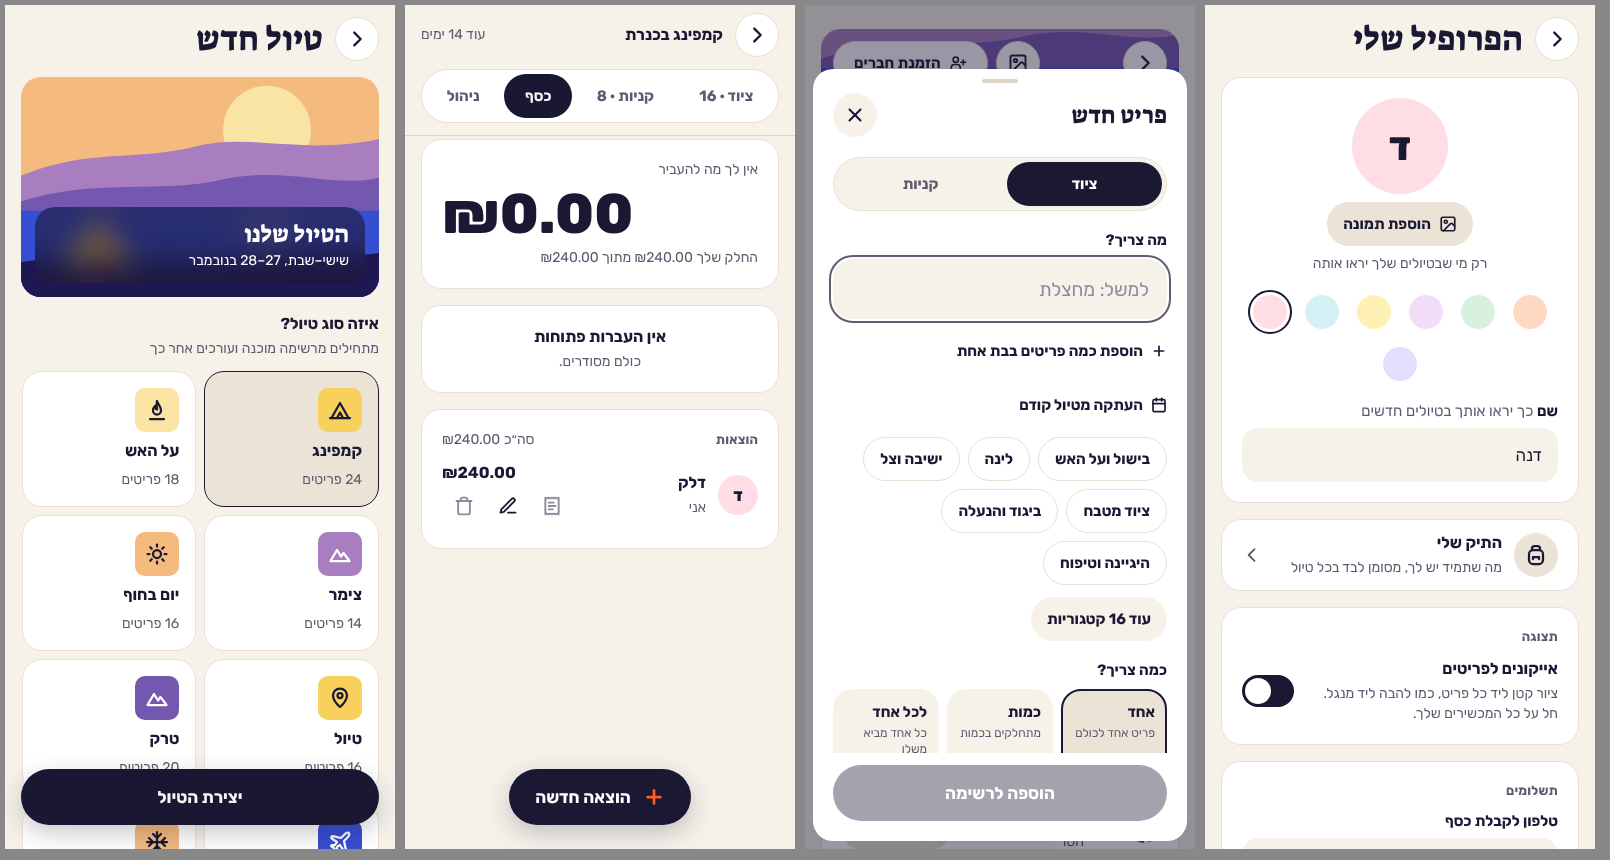
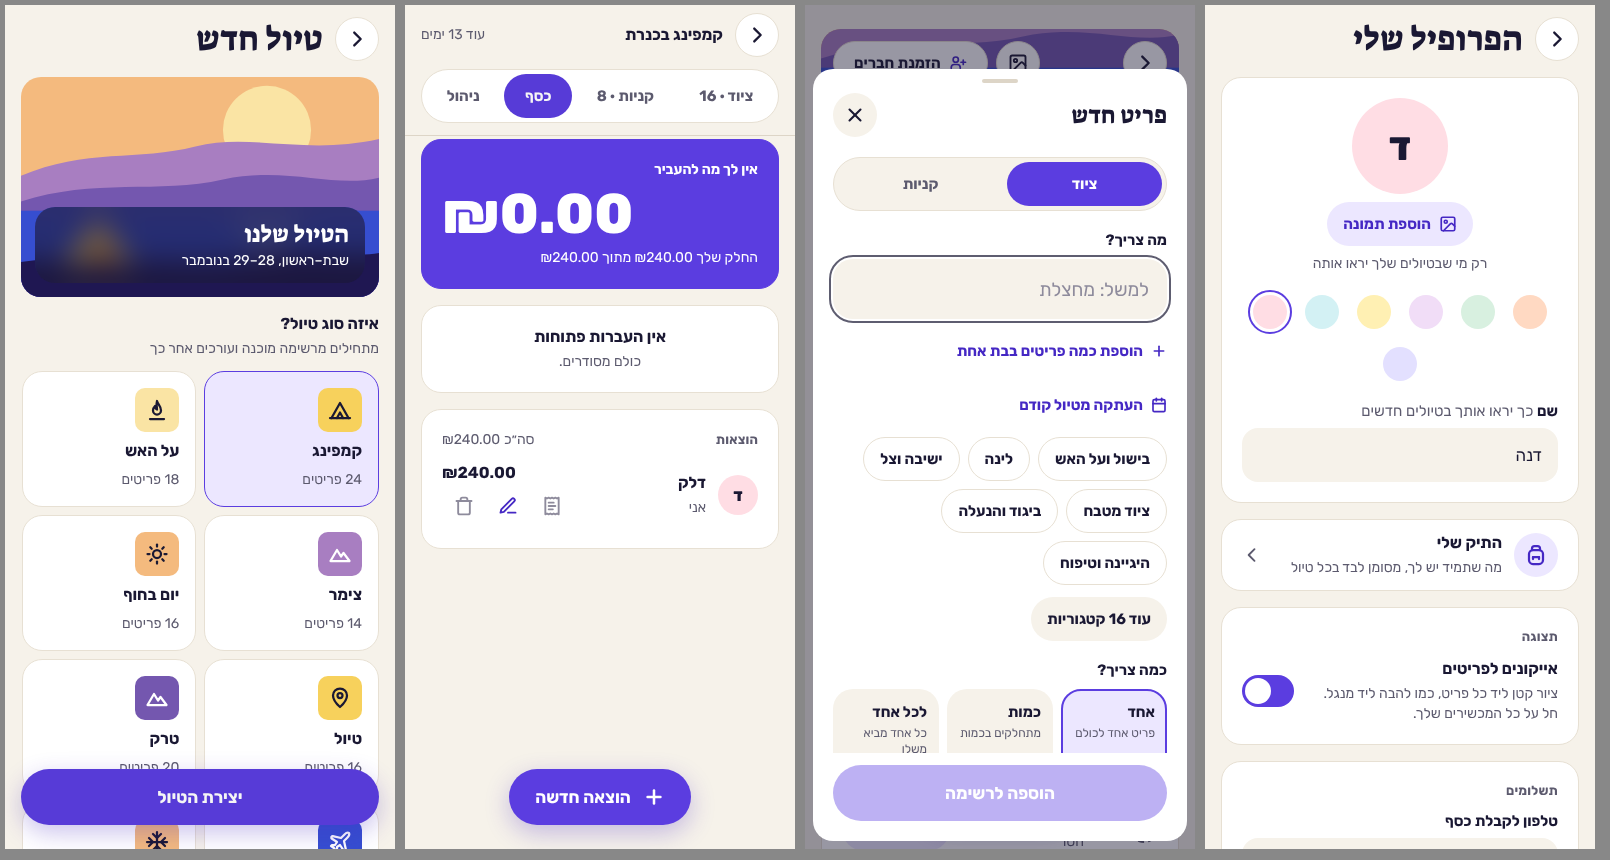
Design v3: bring color back with sunset violet and category accents
Night ink for every action left the app without color. Taps are now
sunset violet (#5B3DE0), the purple of the cover illustrations' hills,
and orange keeps meaning "done".

- primary / primaryTint / primaryStrong are violet; the floating
  button's icon is white again.
- Each category card on a list gets an accent hue, cycling: a dot by
  its name and the color of its items' icons.
- The money balance is a violet card with white text.
- DESIGN.md, the design README, the token files and the v3 screenshots
  describe the new palette.

Claude-Session: https://claude.ai/code/session_01VJCBwKmRcH2gRZtPoHWbWs

diff --git a/apps/mobile/src/theme/index.ts b/apps/mobile/src/theme/index.ts
@@ -1,7 +1,8 @@
 import { Platform, type TextStyle } from 'react-native';
 
 /**
- * Design system v3 tokens (docs/design/DESIGN.md): warm paper, night ink and one orange spark.
+ * Design system v3 tokens (docs/design/DESIGN.md): warm paper, night ink, sunset violet for what
+ * you tap, and orange for what's done.
  * The page background is `ground` and cards are `card`, so "surface" never has two meanings.
  */
 export const colors = {
@@ -9,17 +10,17 @@ export const colors = {
   ground: '#F6F2EA',
   /** Cards and sheets, always on `ground`, outlined with `hairline`. */
   card: '#FFFFFF',
-  /** Night ink: headings, and (as `primary`) everything you can tap. */
+  /** Night ink: headings and body text. */
   ink: '#1A1833',
   inkMuted: '#5C5A6E',
-  /** Solid buttons, selected chips and tabs, links. The same night as `ink`. */
-  primary: '#1A1833',
+  /** Sunset violet: everything you can tap (solid buttons, selected chips and tabs, links). */
+  primary: '#5B3DE0',
   onPrimary: '#FFFFFF',
-  /** Tonal buttons, step circles, selected tiles: sand, a step deeper than `ground`. */
-  primaryTint: '#EBE4D6',
-  /** Text on `primaryTint`. */
-  primaryStrong: '#1A1833',
-  /** Yallist orange: the logo, done checks, progress, and the icon on a solid button. Graphics only. */
+  /** Tonal buttons, step circles, selected tiles: pale violet. */
+  primaryTint: '#ECE7FF',
+  /** Violet text and icons on `primaryTint` and `card`. */
+  primaryStrong: '#4528C4',
+  /** Yallist orange: the logo, done checks and progress. Graphics only; never buttons. */
   brand: '#FF5A1F',
   /** Orange text on `card` and `ground` (e.g. "אצלך", errors). */
   brandStrong: '#B8370B',
@@ -40,6 +41,15 @@ export const colors = {
   hairline: '#E7E0D3',
   scrim: 'rgba(26,24,51,0.45)',
 } as const;
+
+/**
+ * One hue per category card, in order: its dot and its items' icons. Each is at least 4.3:1 on
+ * `card`, so an icon in it reads as clearly as `inkMuted`.
+ */
+export const accents = ['#5B3DE0', '#0A7C76', '#D9480F', '#C2387A', '#A86A0A', '#2F6FD0'] as const;
+
+/** The accent for the category card at `index`, cycling. */
+export const accentAt = (index: number) => accents[index % accents.length]!;
 
 /**
  * Suez One for titles (one weight), Rubik at 400, 700 and 800 for everything else
@@ -142,7 +152,7 @@ export const webDir = (Platform.OS === 'web' ? { dir: isRTL ? 'rtl' : 'ltr' } : 
 
 /** Only what floats has a shadow: the floating button and the toast. Cards stay flat. */
 export const shadow = {
-  float: { boxShadow: '0 8px 24px rgba(26,24,51,0.24)' },
+  float: { boxShadow: '0 8px 24px rgba(69,40,196,0.28)' },
 } as const;
 
 /** The card: white on `ground`, outlined with a hairline. Spread into any view that is one. */

diff --git a/apps/mobile/src/features/trip/ListTab.tsx b/apps/mobile/src/features/trip/ListTab.tsx
@@ -19,7 +19,7 @@ import { testId } from '@/lib/testId';
 import { useBag } from '@/state/bag';
 import { useTripAction } from '@/state/trips';
 import type { TripData } from '@/state/types';
-import { colors, space, type } from '@/theme';
+import { accentAt, colors, space, type } from '@/theme';
 import { useBreakpoint } from '@/theme/breakpoint';
 
 import { BagCards } from './BagCards';
@@ -156,10 +156,11 @@ export function ListTab({
         ) : (
           <EmptyState {...he.trip.empty.missing} />
         ))}
-      {groups.map(({ category, total, missing, items }) => (
+      {groups.map(({ category, total, missing, items }, index) => (
         <Card key={category?.id ?? 'none'} gap={space[3]}>
           {/* The card's small muted title (trip.html "ציוד"), with ✎ for the category sheet. */}
           <View style={styles.header}>
+            <View style={[styles.dot, { backgroundColor: accentAt(index) }]} />
             <Text style={styles.title} accessibilityRole="header">
               {category?.name ?? he.trip.uncategorized}
             </Text>
@@ -192,6 +193,7 @@ export function ListTab({
               }
               onClaim={(quantity) => act({ type: 'setClaim', itemId: item.id, quantity })}
               onPack={(packed) => act({ type: 'setPacked', itemId: item.id, packed })}
+              accent={accentAt(index)}
             />
           ))}
           {category && filter === 'all' && (
@@ -230,12 +232,9 @@ const styles = StyleSheet.create({
   filters: { gap: space[2] },
   chips: { flexDirection: 'row', flexWrap: 'wrap', justifyContent: 'center', gap: space[2] },
   header: { flexDirection: 'row', alignItems: 'center', gap: space[2], minHeight: 36 },
-  title: {
-    ...type.caption,
-    fontFamily: type.itemTitle.fontFamily,
-    color: colors.inkMuted,
-    flex: 1,
-  },
+  // The category's accent, which its items' icons share.
+  dot: { width: 10, height: 10, borderRadius: 5 },
+  title: { ...type.itemTitle, color: colors.ink, flex: 1 },
   aside: { ...type.caption, color: colors.inkMuted },
   progress: { ...type.itemTitle, color: colors.ink, flex: 1 },
   progressWrap: { gap: space[2], paddingHorizontal: space[1] },

diff --git a/apps/mobile/src/features/trip/MoneyTab.tsx b/apps/mobile/src/features/trip/MoneyTab.tsx
@@ -58,7 +58,8 @@ export function MoneyTab({ data, view, me }: { data: TripData; view: TripView; m
 
   return (
     <View style={styles.wrap}>
-      <Card gap={space[1]}>
+      {/* The one colored card: what I owe or am owed, on violet. */}
+      <Card gap={space[1]} style={styles.hero}>
         <Text style={styles.heroTitle}>{title}</Text>
         <Text style={styles.heroAmount}>{formatShekel(amount)}</Text>
         {view.totalSpent > 0 && (
@@ -80,7 +81,7 @@ export function MoneyTab({ data, view, me }: { data: TripData; view: TripView; m
           myPaid.length > 0 && (
             <>
               <View style={styles.heroStatus}>
-                <Icon name="check" size={18} color={colors.primaryStrong} />
+                <Icon name="check" size={18} color={colors.onPrimary} />
                 <Text style={styles.heroText}>
                   {myUnconfirmed.length > 0 ? he.money.waiting : he.money.received}
                 </Text>
@@ -340,9 +341,10 @@ const styles = StyleSheet.create({
     justifyContent: 'center',
   },
   receiptPercent: { ...type.caption, color: colors.primaryStrong },
-  heroTitle: { ...type.caption, color: colors.inkMuted },
-  heroAmount: { ...type.bigNumber, color: colors.ink },
-  heroText: { ...type.caption, color: colors.inkMuted },
+  hero: { backgroundColor: colors.primary, borderColor: colors.primary },
+  heroTitle: { ...type.caption, fontFamily: type.itemTitle.fontFamily, color: colors.onPrimary },
+  heroAmount: { ...type.bigNumber, color: colors.onPrimary },
+  heroText: { ...type.caption, color: colors.onPrimary },
   heroButton: { marginTop: space[3] },
   heroStatus: { flexDirection: 'row', alignItems: 'center', gap: space[2], marginTop: space[3] },
   paymentEnd: { alignItems: 'flex-end' },

diff --git a/apps/mobile/src/components/ItemIcon.tsx b/apps/mobile/src/components/ItemIcon.tsx
@@ -10,7 +10,8 @@ import { ITEM_GLYPHS } from './itemGlyphs';
 const FALLBACK = { bring: 'backpack', buy: 'shopping-basket' } as const;
 
 /**
- * An item's line icon, by its name: thin, gray and with no background, so the row's name leads.
+ * An item's line icon, by its name: thin and with no background, so the row's name leads; gray,
+ * or its category card's accent (`color`).
  * Decorative, so hidden from screen readers, which read the name beside it. Nothing at all when
  * the user turned item icons off in their profile.
  */
@@ -18,17 +19,19 @@ export function ItemIcon({
   name,
   list = 'bring',
   size = 22,
+  color = colors.inkMuted,
 }: {
   name: string;
   list?: ListKind;
   size?: number;
+  color?: string;
 }) {
   const show = useShowItemIcons();
   if (!show) return null;
   const Glyph = ITEM_GLYPHS[catalogIcon(name) ?? FALLBACK[list]];
   return (
     <View accessibilityElementsHidden importantForAccessibility="no-hide-descendants">
-      <Glyph size={size} color={colors.inkMuted} strokeWidth={1.75} absoluteStrokeWidth />
+      <Glyph size={size} color={color} strokeWidth={1.75} absoluteStrokeWidth />
     </View>
   );
 }

diff --git a/docs/design/tokens/theme.ts b/docs/design/tokens/theme.ts
@@ -3,10 +3,10 @@ export const colors = {
   card: '#FFFFFF',
   ink: '#1A1833',
   inkMuted: '#5C5A6E',
-  primary: '#1A1833',
+  primary: '#5B3DE0',
   onPrimary: '#FFFFFF',
-  primaryTint: '#EBE4D6',
-  primaryStrong: '#1A1833',
+  primaryTint: '#ECE7FF',
+  primaryStrong: '#4528C4',
   brand: '#FF5A1F',
   brandStrong: '#B8370B',
   illustration: {
@@ -20,6 +20,8 @@ export const colors = {
   line: '#DDD5C7',
   hairline: '#E7E0D3',
 } as const;
+
+export const accents = ['#5B3DE0', '#0A7C76', '#D9480F', '#C2387A', '#A86A0A', '#2F6FD0'] as const;
 
 export const space = {
   1: 4,
@@ -84,17 +86,18 @@ export const typography = {
 
 export const shadow = {
   float: {
-    shadowColor: '#1A1833',
+    shadowColor: '#4528C4',
     shadowOffset: { width: 0, height: 8 },
-    shadowOpacity: 0.24,
+    shadowOpacity: 0.28,
     shadowRadius: 12,
     elevation: 8,
   },
-  floatCss: '0 8px 24px rgba(26, 24, 51, 0.24)',
+  floatCss: '0 8px 24px rgba(69, 40, 196, 0.28)',
 } as const;
 
 export const theme = {
   colors,
+  accents,
   space,
   layout,
   radius,

diff --git a/docs/design/tokens/tokens.css b/docs/design/tokens/tokens.css
@@ -3,10 +3,10 @@
   --card: #ffffff;
   --ink: #1a1833;
   --ink-muted: #5c5a6e;
-  --primary: #1a1833;
+  --primary: #5b3de0;
   --on-primary: #ffffff;
-  --primary-tint: #ebe4d6;
-  --primary-strong: #1a1833;
+  --primary-tint: #ece7ff;
+  --primary-strong: #4528c4;
   --brand: #ff5a1f;
   --brand-strong: #b8370b;
   --illo-sky: #f4ba7e;
@@ -43,6 +43,12 @@
   --avatar-xxl: 96px;
   --line: #ddd5c7;
   --hairline: #e7e0d3;
+  --accent-1: #5b3de0;
+  --accent-2: #0a7c76;
+  --accent-3: #d9480f;
+  --accent-4: #c2387a;
+  --accent-5: #a86a0a;
+  --accent-6: #2f6fd0;
   --progress-fill: var(--brand);
   --progress-track: var(--line);
   --motion-fast: 150ms;
@@ -50,7 +56,7 @@
   --motion-slow: 400ms;
   --motion-celebrate: 1200ms;
   --easing-out: cubic-bezier(0.2, 0, 0, 1);
-  --shadow-float: 0 8px 24px rgba(26, 24, 51, 0.24);
+  --shadow-float: 0 8px 24px rgba(69, 40, 196, 0.28);
 }
 
 .page-title { font-family: var(--font-display); font-size: 34px; line-height: 40px; font-weight: 400; }

diff --git a/apps/mobile/src/components/FloatingAction.tsx b/apps/mobile/src/components/FloatingAction.tsx
@@ -8,8 +8,8 @@ import { testId } from '@/lib/testId';
 import { colors, space } from '@/theme';
 
 /**
- * The screen's one floating primary action: bottom-centered, `space-6` from the edge. Its icon
- * (a plus by default) is the orange spark on night, like the mark beside the wordmark.
+ * The screen's one floating primary action: bottom-centered, `space-6` from the edge, a plus
+ * icon by default.
  */
 export function FloatingAction({
   label,
@@ -37,7 +37,7 @@ export function FloatingAction({
         disabled={disabled}
         accessibilityLabel={accessibilityLabel}
         {...testId(testID)}
-        icon={icon ? <Icon name={icon} color={colors.brand} strokeWidth={3} /> : undefined}
+        icon={icon ? <Icon name={icon} color={colors.onPrimary} strokeWidth={2.75} /> : undefined}
         onPress={onPress}
       />
     </View>

diff --git a/apps/mobile/src/features/trip/ItemRow.tsx b/apps/mobile/src/features/trip/ItemRow.tsx
@@ -42,6 +42,7 @@ export function ItemRow({
   onOpen,
   onClaim,
   onPack,
+  accent,
 }: {
   item: Item;
   claims: readonly Claim[];
@@ -52,6 +53,8 @@ export function ItemRow({
   onOpen: () => void;
   onClaim: (quantity: number) => void;
   onPack: (packed: boolean) => void;
+  /** Its category card's accent, for the item's icon. */
+  accent?: string;
 }) {
   const status = view.status(item);
   const line = bagLine(
@@ -144,7 +147,7 @@ export function ItemRow({
       ) : (
         <StatusRing state={ring} label={line.label} />
       )}
-      <ItemIcon name={item.name} list={item.list} />
+      <ItemIcon name={item.name} list={item.list} color={accent} />
       <Pressable style={styles.main} onPress={onOpen} accessibilityRole="button">
         <Text style={styles.name}>
           {item.name}

diff --git a/docs/design/DESIGN.md b/docs/design/DESIGN.md
@@ -4,7 +4,7 @@
 
 Yallist is a group-trip app for Israel: one shared list for who brings what and what still needs buying. It is Hebrew-first and right-to-left, warm, quick, and a little playful, like the WhatsApp group it replaces.
 
-**The look in one line.** Warm paper, night ink, and one orange spark: the app looks like its own logo (an orange mark beside ink letters) and like the sunset in its illustrations, not like a blue web app.
+**The look in one line.** Warm paper, night ink, sunset violet for what you tap and orange for what's done: the colors of the cover illustrations' evening sky, not of a generic blue app.
 
 ## Voice
 
@@ -32,14 +32,16 @@ The Check-Y is a Y whose arms form a checkmark, and it *is* the Y of the name. T
 
 ## Color
 
-Three roles, each with one job:
+Four roles, each with one job:
 
-- **Paper (`surface`, `primary-tint`, `line`, `hairline`) is the place.** The page is warm paper, cards are white on it with a `hairline` outline, and sand (`primary-tint`) is the quiet fill for tonal buttons, step circles and tips. No cold grays.
-- **Night ink (`ink`, `primary`) means *read this* and *do something*.** It is one color: headings, solid buttons, selected chips and tabs, links. What tells a button from text is its shape, never a second hue.
-- **Brand orange (`brand`) is the spark.** It is the logo, a done check, progress, and the icon on the floating button: orange on night, the same pair as the mark beside the wordmark. One spark per view is enough. Never an orange button fill, and never orange text; `brand-strong` is the orange that can be read (“אצלך”, errors, delete).
-- **Illustration.** The `illo-*` sunset palette is for illustrations, trip tiles and covers only. With the UI down to paper, ink and orange, they carry the color.
+- **Paper (`surface`, `line`, `hairline`) is the place.** The page is warm paper, and cards are white on it with a `hairline` outline. No cold grays.
+- **Night ink (`ink`, `ink-muted`) is for reading.** Headings and text.
+- **Sunset violet (`primary`, `primary-tint`, `primary-strong`) means *do something*.** Solid buttons, selected chips and tabs, links, the default avatar, step numerals. `primary-tint` is the quiet fill for tonal buttons, step circles and tips. One card per screen may be filled with `primary` when it holds the screen's key number (the money balance).
+- **Brand orange (`brand`) means *done* and *Yallist*.** The logo, a done check, progress. Never a button fill, and never text; `brand-strong` is the orange that can be read (“אצלך”, errors, delete).
+- **Category accents (`accent-*`)** give each category card on a list its own hue, cycling in order: a dot beside its name and the color of its items' icons. They are decoration; the name always says which category it is.
+- **Illustration.** The `illo-*` sunset palette is for illustrations, trip tiles and covers only. Violet and orange are taken from it, which is why the UI and the covers sit together.
 
-**Contrast to watch.** `brand` on white is 3.1:1, which is fine for the logo and icons but not for text; use `brand-strong` (5.9:1 on card, 5.2:1 on paper). `brand` on `primary` is 5.5:1. Placeholders (`ink-faint`) are 3.3:1 on card and are never the only label.
+**Contrast to watch.** White on `primary` is 6.6:1; `primary` on paper is 5.9:1. `brand` on white is 3.1:1, fine for the logo and icons but not text: use `brand-strong` (5.9:1 on card, 5.2:1 on paper). Every accent is at least 4.3:1 on card. Placeholders (`ink-faint`) are 3.3:1 on card and are never the only label.
 
 ## Type
 
@@ -55,7 +57,7 @@ Two families. **Suez One** sets the titles (`page-title`, `section-title`): one 
 
 ## Iconography
 
-Icons are a rounded stroke on a 24px grid (Lucide), in the color of the text beside them. The one exception is the icon on the floating button, which is `brand`. Icons sit before their label, so they land on the right in RTL. No emoji as icons.
+Icons are a rounded stroke on a 24px grid (Lucide), in the color of the text beside them. Item icons on a list take their category's accent. Icons sit before their label, so they land on the right in RTL. No emoji as icons.
 
 ## Components
 
@@ -76,7 +78,7 @@ The Yallist logo: the orange Check-Y mark standing in for the Y, followed by “
 - **Clear space:** half the mark’s height on every side, shown as the dashed zone in the preview.
 - **Minimums:** the icon at 24px, the lockup at 24px tall.
 - **Never** set the mark beside the full word “yallist”, retype the letters, recolor the mark, or add shadows or outlines.
-- The logo is the only place `brand` appears at full size. On screens it is a spark: a check, a ring, one icon.
+- The logo is the only place `brand` appears at full size. On screens it marks what's done: a check, a ring.
 
 The consumer provides only placement and size, because the files are final artwork.
 
@@ -97,11 +99,11 @@ Pill buttons in two strengths: the floating primary for the one main action on a
 
 | Variant | Height | Fill | Label | Use |
 |---|---|---|---|---|
-| Floating primary | `size-button-lg` | `primary` + `shadow-float` | `button-lg` in `on-primary`, icon in `brand` | The screen’s one main action, bottom-centered, `space-6` from the edge |
+| Floating primary | `size-button-lg` | `primary` + `shadow-float` | `button-lg` in `on-primary` | The screen’s one main action, bottom-centered, `space-6` from the edge |
 | Tonal | `size-button-sm` | `primary-tint` | `button-sm` in `primary-strong` | Secondary actions inside a card, such as “טיול לדוגמה” |
 
 - Both use `radius-pill` and the Rubik label, with no border.
-- The icon comes before the label (`space-3` gap), so it sits on the right in RTL. It is a rounded stroke in the label color; on the floating button it is `brand`.
+- The icon comes before the label (`space-3` gap), so it sits on the right in RTL. It is a rounded stroke in the label color.
 - Labels are actions as nouns (“פתיחת טיול ראשון”), at most three words.
 - Never more than one floating primary per screen, and never an orange fill.
 

diff --git a/docs/design/README.md b/docs/design/README.md
@@ -1,6 +1,6 @@
 # Design
 
-The current design is **design system v3**: warm paper, night ink and one orange spark, with Suez One for titles and Rubik for the rest. It keeps v2's logo, components and layout, and changes what they are drawn with. The source of truth for values is `apps/mobile/src/theme`; [DESIGN.md](DESIGN.md) explains the rules.
+The current design is **design system v3**: warm paper, night ink, sunset violet for what you tap and orange for what's done, with Suez One for titles and Rubik for the rest. It keeps v2's logo, components and layout, and changes what they are drawn with. The source of truth for values is `apps/mobile/src/theme`; [DESIGN.md](DESIGN.md) explains the rules.
 
 | Path                                           | What it is                                                                                        |
 | ---------------------------------------------- | ------------------------------------------------------------------------------------------------- |
@@ -31,16 +31,17 @@ The app follows the token names, except:
 
 - The page background is `colors.ground` (`surface`), so `surface` can't silently change from “card” to “page” in code written against v1. In the app, `surface` is the card's style object (fill, radius and hairline), spread into any view that is a card.
 - `size-*` → `size`, `space-*` → `space`, `radius-*` → `radius`, `shadow-float` → `shadow.float`, text styles → `type`.
-- App additions: `inkFaint` (placeholders), `scrim`, `type.bigNumber`, `space[2]`, `radius.input`.
+- App additions: `inkFaint` (placeholders), `scrim`, `type.bigNumber`, `space[2]`, `radius.input`, `accents` (`accentAt(i)`).
 
 ## What changed from v2
 
-v2 followed one rule: blue is what you tap, orange is the brand. The result read as a generic blue app on a cold gray page, and the brand hardly appeared in the product. v3 makes the app look like its logo.
+v2 read as a generic blue app on a cold gray page, and the brand hardly appeared in the product. v3 takes its colors from the brand's own sunset: paper, violet and orange.
 
-- **Color.** The page is warm paper (`#F6F2EA`, was the cold `#F4F5F8`). Blue is gone: `primary` is the night ink of the wordmark (`#1A1833`), so buttons, selected chips and tabs, and links are ink. `primary-tint` is sand. Orange stays for done checks and progress, and now also the icon on the floating button. `brand-strong` is a shade deeper (`#B8370B`) so it passes on paper as well as on cards.
+- **Color.** The page is warm paper (`#F6F2EA`, was the cold `#F4F5F8`). `primary` is sunset violet (`#5B3DE0`, was blue `#425AF4`), taken from the covers' evening hills, so buttons, selected chips and tabs, and links are violet and `primary-tint` is pale violet. Orange stays for done checks and progress. `brand-strong` is a shade deeper (`#B8370B`) so it passes on paper as well as on cards.
+- **Category accents.** Each category card on a list gets a hue (violet, teal, orange, berry, gold, sky, in order): a dot by its name and its items' icons. The money balance is a violet card.
 - **Type.** Titles are Suez One. Rubik stays for everything else; the large button label drops from 800 to 700.
 - **Cards** have a 1px `hairline` outline and a 20px radius (was 24, no outline). Unselected filter chips, the tabs' track and round header buttons are outlined the same way.
-- **Buttons.** The floating button is 56px tall (was 60). The row buttons are sand with ink labels, so a list of them reads as a list, not as a column of blue.
+- **Buttons.** The floating button is 56px tall (was 60). The row buttons are pale violet with violet labels.
 - **Unchanged.** The logo, the illustrations and covers, the icons, the status ring, the spacing scale, the 44px touch target, the layouts and every string.
 
 Before and after: [screenshots/v3/](screenshots/v3/). The other screenshots under `screenshots/` and the HTML under `reference/` were made in v2 and still show its colors.
